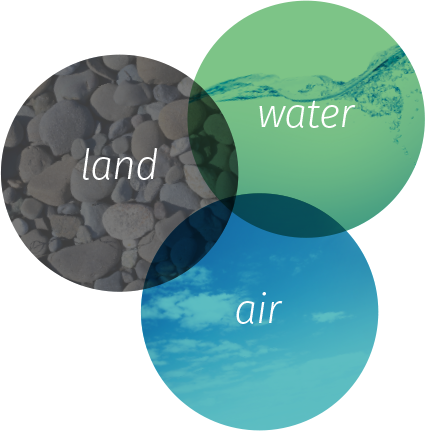
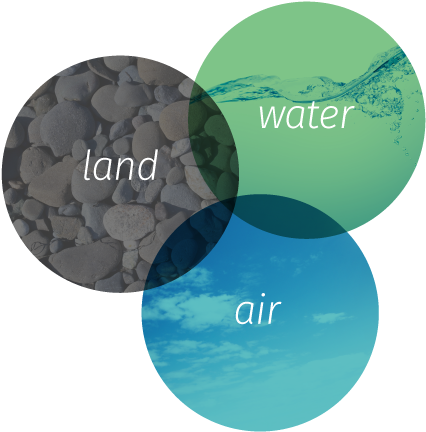
fixes from basecamp

diff --git a/source/stylesheets/site.css.scss b/source/stylesheets/site.css.scss
@@ -1770,7 +1770,7 @@ footer {
   .how-we-work {
     padding: 50px 0px;
     .how-we-work-animation {
-    width: 90%;
+      width: 100%;
     }
     p {
     font-size: 16px;
